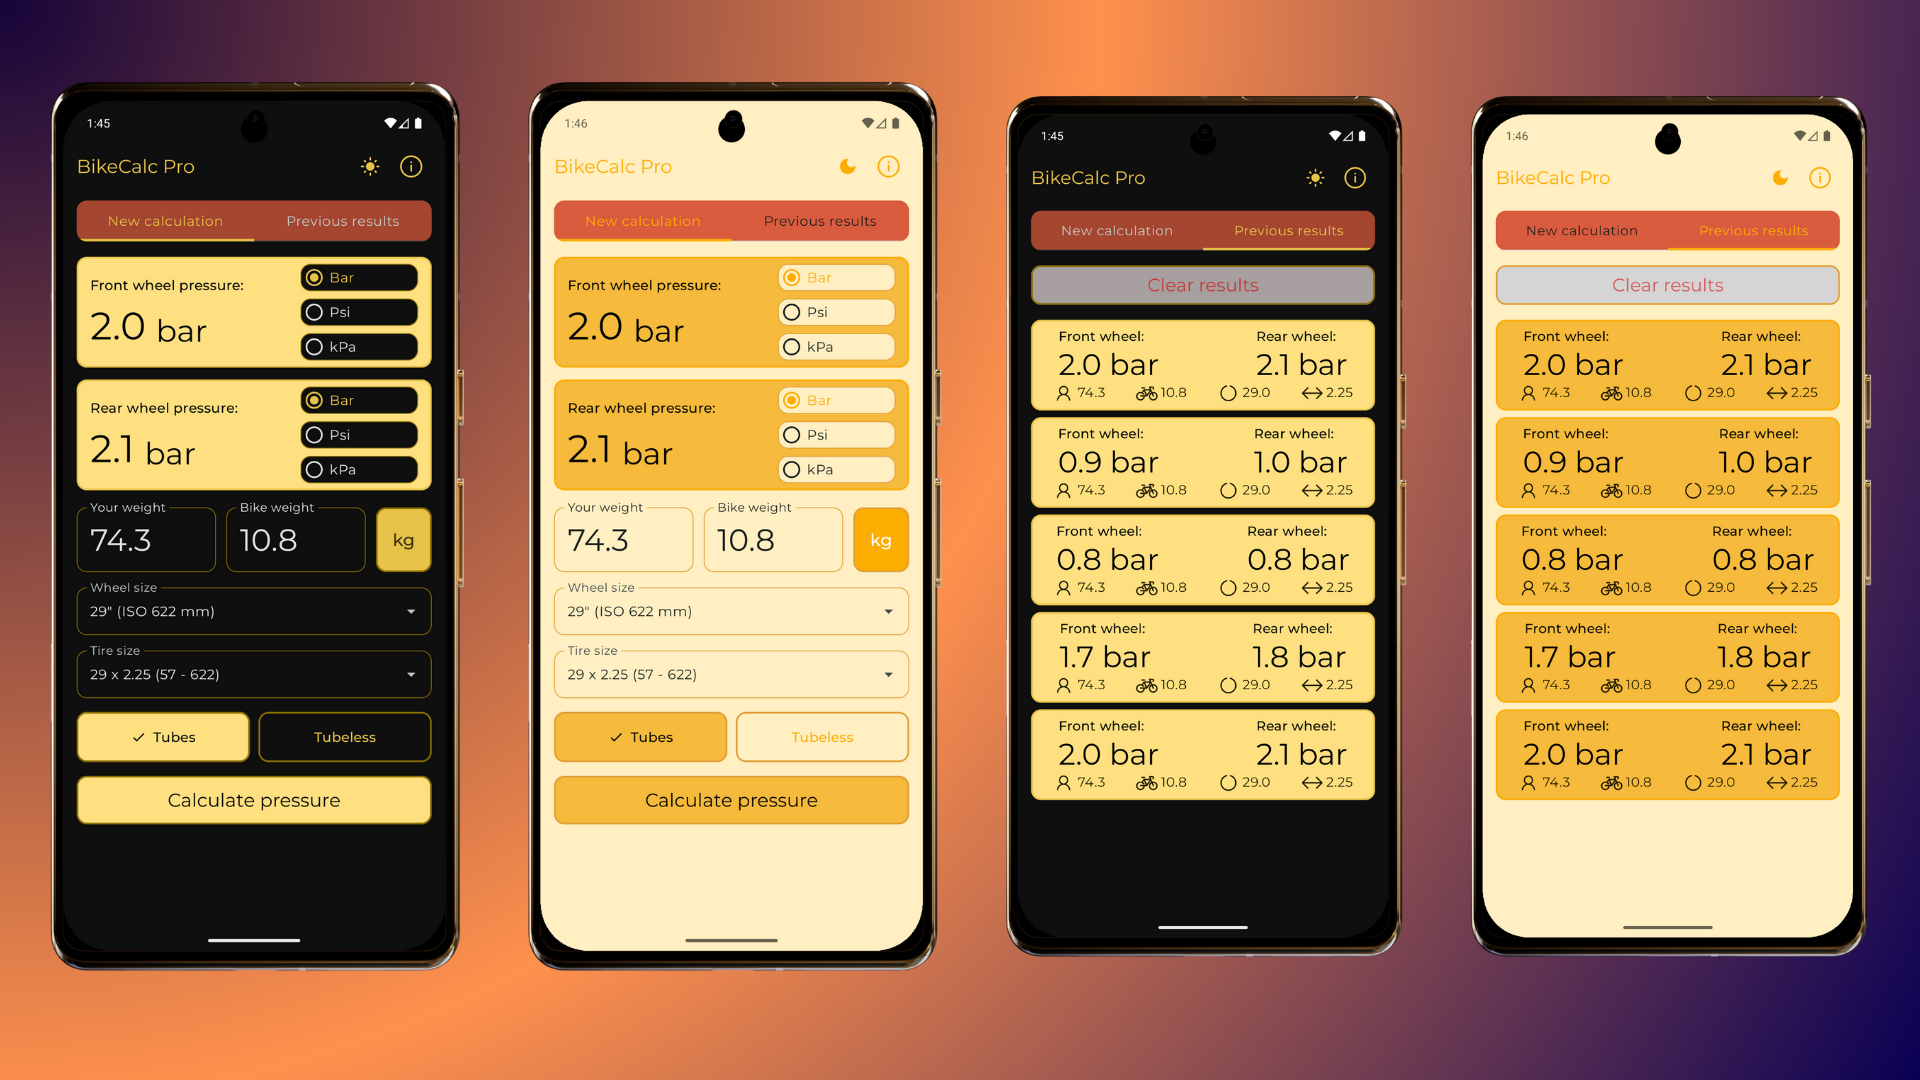
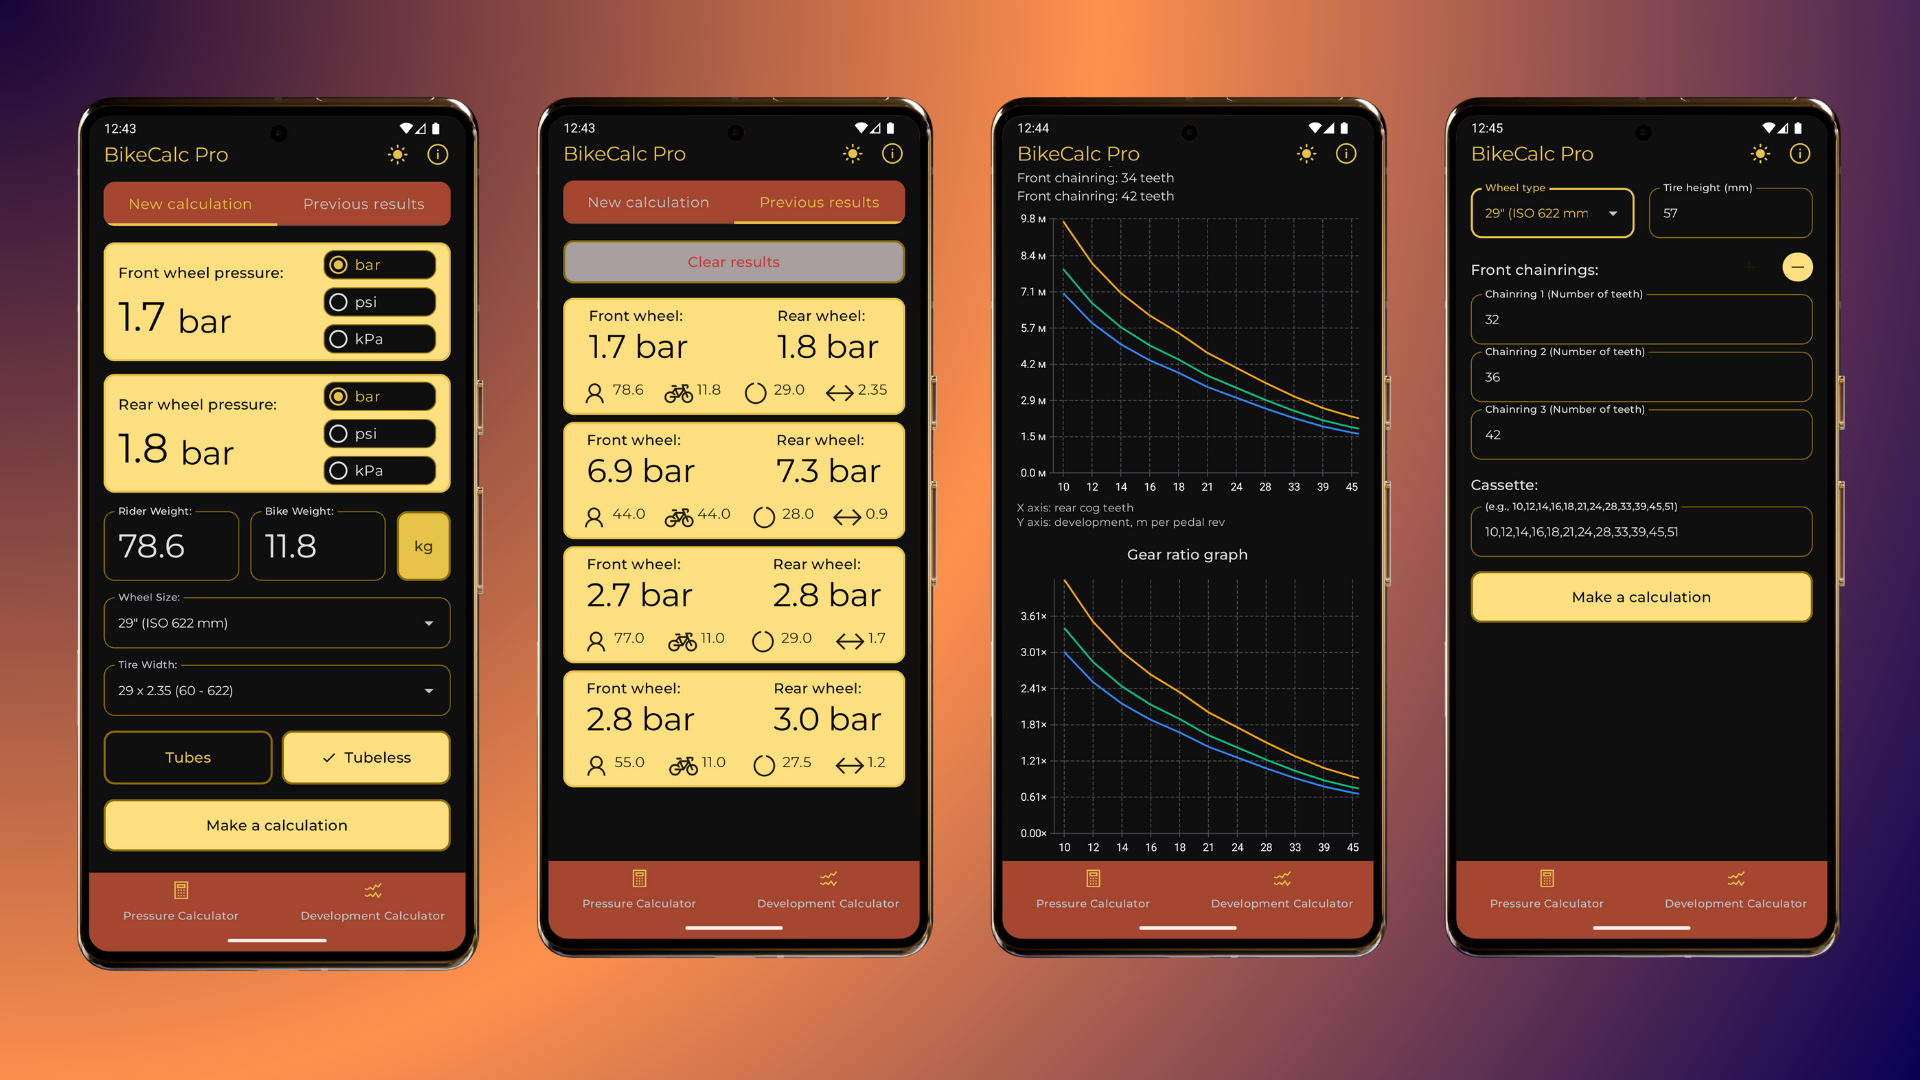
Рефакторинг: Обновление интерфейса и перемещение компонента кнопки
Этот коммит вносит ряд изменений в пользовательский интерфейс и структуру проекта:

**Основные изменения:**

-   **`composeApp` (MainScreen.kt):**
    -   Увеличена высота `NavigationBar` до `86.dp`.
    -   Установлен размер иконок в `NavigationBar` на `24.dp`.
    -   Изменен размер иконок в `TopAppBar` (смена темы и информация) на `28.dp`.
    -   Добавлен `Spacer` шириной `16.dp` между иконками в `TopAppBar`.
-   **`feature/pressure` (PressureScreenContent.kt):**
    -   Удалено явное указание размера шрифта (`20.sp`) для текста единиц веса, теперь используется `MaterialTheme.typography.titleMedium`.
-   **`feature/development` (DevelopmentCalculatorScreenRoot.kt):**
    -   Заменена стандартная кнопка `Button` на кастомный компонент `CalculatePressureButton` для расчета развития.
    -   Уменьшен отступ `Spacer` перед полем ввода количества зубьев задних звезд с `6.dp` до `2.dp`.
-   **`designsystem`:**
    -   **Перемещение и переименование компонента:** `CalculatePressureButton.kt` из модуля `feature/pressure` перемещен в `designsystem/src/commonMain/kotlin/dev/filinhat/bikecalc/designsystem/component` и переименован в `CalculateButton.kt`.
    -   **Добавлены строки для кнопки расчета:**
        -   `designsystem/src/commonMain/composeResources/values/strings.xml`: Добавлена строка "calculate" со значением "Make a calculation".
[…]

diff --git a/feature/development/src/commonMain/kotlin/dev/filinhat/bikecalc/feature/development/screen/DevelopmentCalculatorScreenRoot.kt b/feature/development/src/commonMain/kotlin/dev/filinhat/bikecalc/feature/development/screen/DevelopmentCalculatorScreenRoot.kt
@@ -15,7 +15,6 @@ import androidx.compose.foundation.layout.size
 import androidx.compose.foundation.layout.widthIn
 import androidx.compose.foundation.rememberScrollState
 import androidx.compose.foundation.verticalScroll
-import androidx.compose.material3.Button
 import androidx.compose.material3.Icon
 import androidx.compose.material3.IconButton
 import androidx.compose.material3.IconButtonDefaults
@@ -40,7 +39,6 @@ import bikecalcmp.feature.development.generated.resources.cassette
 import bikecalcmp.feature.development.generated.resources.cassette_hint
 import bikecalcmp.feature.development.generated.resources.front_chainring_n_hint
 import bikecalcmp.feature.development.generated.resources.front_chainrings_title
-import bikecalcmp.feature.development.generated.resources.new_calculation
 import bikecalcmp.feature.development.generated.resources.tire_width_mm
 import bikecalcmp.feature.development.generated.resources.wheel_size
 import compose.icons.LineAwesomeIcons
@@ -49,6 +47,7 @@ import compose.icons.lineawesomeicons.PlusSolid
 import dev.filinhat.bikecalc.core.common.util.toBikeDouble
 import dev.filinhat.bikecalc.core.enums.wheel.WheelSize
 import dev.filinhat.bikecalc.core.model.development.DevelopmentCalcParams
+import dev.filinhat.bikecalc.designsystem.component.CalculatePressureButton
 import dev.filinhat.bikecalc.designsystem.component.CompactNumericInputField
 import dev.filinhat.bikecalc.feature.development.component.DevelopmentCharts
 import dev.filinhat.bikecalc.feature.development.component.WheelSizeDropdown
@@ -225,7 +224,7 @@ private fun DevelopmentCalculatorScreen(
                     .fillMaxWidth(),
         )
 
-        Spacer(modifier = Modifier.padding(6.dp))
+        Spacer(modifier = Modifier.padding(2.dp))
 
         CompactNumericInputField(
             value = rearTeeth,
@@ -237,24 +236,25 @@ private fun DevelopmentCalculatorScreen(
 
         Spacer(modifier = Modifier.padding(8.dp))
 
-        Button(onClick = {
-            keyboardController?.hide()
-            focusManager?.clearFocus()
-            val frontList = frontTeethInputs.mapNotNull { it.trim().toIntOrNull() }.take(3)
-            val rearList = rearTeeth.split(",").mapNotNull { it.trim().toIntOrNull() }
-            onAction(
-                DevelopmentCalcAction.OnCalculateDevelopment(
-                    DevelopmentCalcParams(
-                        rimDiameterMm = selectedWheelSize.etrtoMm.toDouble(),
-                        tireWidthMm = tireWidth.toBikeDouble(),
-                        frontTeethList = frontList,
-                        rearTeethList = rearList,
+        CalculatePressureButton(
+            onClick = {
+                keyboardController?.hide()
+                focusManager?.clearFocus()
+                val frontList = frontTeethInputs.mapNotNull { it.trim().toIntOrNull() }.take(3)
+                val rearList = rearTeeth.split(",").mapNotNull { it.trim().toIntOrNull() }
+                onAction(
+                    DevelopmentCalcAction.OnCalculateDevelopment(
+                        DevelopmentCalcParams(
+                            rimDiameterMm = selectedWheelSize.etrtoMm.toDouble(),
+                            tireWidthMm = tireWidth.toBikeDouble(),
+                            frontTeethList = frontList,
+                            rearTeethList = rearList,
+                        ),
                     ),
-                ),
-            )
-        }) {
-            Text(stringResource(Res.string.new_calculation))
-        }
+                )
+            },
+            enabled = true,
+        )
         Spacer(modifier = Modifier.padding(8.dp))
 
         AnimatedVisibility(

diff --git a/composeApp/src/commonMain/kotlin/dev/filinhat/bikecalc/presentation/MainScreen.kt b/composeApp/src/commonMain/kotlin/dev/filinhat/bikecalc/presentation/MainScreen.kt
@@ -6,8 +6,10 @@ import androidx.compose.foundation.layout.Row
 import androidx.compose.foundation.layout.Spacer
 import androidx.compose.foundation.layout.fillMaxSize
 import androidx.compose.foundation.layout.fillMaxWidth
+import androidx.compose.foundation.layout.height
 import androidx.compose.foundation.layout.padding
 import androidx.compose.foundation.layout.size
+import androidx.compose.foundation.layout.width
 import androidx.compose.material3.Icon
 import androidx.compose.material3.IconButton
 import androidx.compose.material3.IconButtonDefaults
@@ -102,6 +104,7 @@ fun MainScreen(modifier: Modifier = Modifier) {
                 containerColor = MaterialTheme.colorScheme.tertiaryContainer,
                 contentColor = MaterialTheme.colorScheme.primary,
                 tonalElevation = 8.dp,
+                modifier = Modifier.height(86.dp)
             ) {
                 val navBackStackEntry by navController.currentBackStackEntryAsState()
                 val currentDestination = navBackStackEntry?.destination
@@ -126,6 +129,7 @@ fun MainScreen(modifier: Modifier = Modifier) {
                                 imageVector = screen.icon,
                                 contentDescription = screen.title,
                                 tint = MaterialTheme.colorScheme.primary,
+                                modifier = Modifier.size(24.dp)
                             )
                         },
                         label = { Text(screen.title) },
@@ -173,10 +177,12 @@ fun MainScreen(modifier: Modifier = Modifier) {
                             IconButtonDefaults.iconButtonColors(
                                 contentColor = MaterialTheme.colorScheme.primary,
                             ),
-                        modifier = Modifier.size(48.dp),
+                        modifier = Modifier.size(28.dp),
                     ) {
                         Icon(vectorResource(iconTheme), contentDescription = null)
                     }
+
+                    Spacer(modifier = Modifier.width(16.dp))
 
                     IconButton(
                         onClick = {
@@ -188,7 +194,7 @@ fun MainScreen(modifier: Modifier = Modifier) {
                             IconButtonDefaults.iconButtonColors(
                                 contentColor = MaterialTheme.colorScheme.primary,
                             ),
-                        modifier = Modifier.size(48.dp),
+                        modifier = Modifier.size(28.dp),
                     ) {
                         Icon(
                             imageVector = LineAwesomeIcons.InfoCircleSolid,

diff --git a/feature/pressure/src/commonMain/kotlin/dev/filinhat/bikecalc/feature/pressure/component/ChangePressureRadioGroup.kt b/feature/pressure/src/commonMain/kotlin/dev/filinhat/bikecalc/feature/pressure/component/ChangePressureRadioGroup.kt
@@ -26,7 +26,12 @@ import androidx.compose.ui.hapticfeedback.HapticFeedbackType
 import androidx.compose.ui.platform.LocalHapticFeedback
 import androidx.compose.ui.semantics.Role
 import androidx.compose.ui.unit.dp
+import bikecalcmp.feature.pressure.generated.resources.Res
+import bikecalcmp.feature.pressure.generated.resources.bar
+import bikecalcmp.feature.pressure.generated.resources.kpa
+import bikecalcmp.feature.pressure.generated.resources.psi
 import dev.filinhat.bikecalc.core.enums.unit.PressureUnit
+import org.jetbrains.compose.resources.stringResource
 
 /**
  * Радио кнопки для выбора единиц отображения давления
@@ -83,9 +88,9 @@ fun ChangePressureRadioGroup(
                 Text(
                     text =
                         when (item) {
-                            PressureUnit.KPa -> "кПа"
-                            PressureUnit.BAR -> "бар"
-                            PressureUnit.PSI -> "psi"
+                            PressureUnit.KPa -> stringResource(Res.string.kpa)
+                            PressureUnit.BAR -> stringResource(Res.string.bar)
+                            PressureUnit.PSI -> stringResource(Res.string.psi)
                         },
                     style = MaterialTheme.typography.bodyLarge,
                     color = if (item == selectedOption) MaterialTheme.colorScheme.primary else MaterialTheme.colorScheme.onBackground,

diff --git a/designsystem/src/commonMain/kotlin/dev/filinhat/bikecalc/designsystem/component/CalculateButton.kt b/designsystem/src/commonMain/kotlin/dev/filinhat/bikecalc/designsystem/component/CalculateButton.kt
@@ -1,4 +1,4 @@
-package dev.filinhat.bikecalc.feature.pressure.component
+package dev.filinhat.bikecalc.designsystem.component
 
 import androidx.compose.foundation.BorderStroke
 import androidx.compose.foundation.layout.fillMaxWidth
@@ -14,12 +14,12 @@ import androidx.compose.ui.hapticfeedback.HapticFeedbackType
 import androidx.compose.ui.platform.LocalHapticFeedback
 import androidx.compose.ui.text.style.TextOverflow.Companion.Ellipsis
 import androidx.compose.ui.unit.dp
-import bikecalcmp.feature.pressure.generated.resources.Res
-import bikecalcmp.feature.pressure.generated.resources.calculate_pressure
+import bikecalcmp.designsystem.generated.resources.Res
+import bikecalcmp.designsystem.generated.resources.calculate
 import org.jetbrains.compose.resources.stringResource
 
 /**
- * Кнопка для расчета давления.
+ * Кнопка для расчета.
  */
 @Composable
 fun CalculatePressureButton(
@@ -53,16 +53,10 @@ fun CalculatePressureButton(
             ),
     ) {
         Text(
-            text = stringResource(Res.string.calculate_pressure),
-            style = MaterialTheme.typography.titleLarge,
+            text = stringResource(Res.string.calculate),
+            style = MaterialTheme.typography.titleMedium,
             maxLines = 1,
             overflow = Ellipsis,
         )
     }
 }
-
-
-
-
-
-

diff --git a/feature/pressure/src/commonMain/kotlin/dev/filinhat/bikecalc/feature/pressure/component/PressureScreenContent.kt b/feature/pressure/src/commonMain/kotlin/dev/filinhat/bikecalc/feature/pressure/component/PressureScreenContent.kt
@@ -40,7 +40,6 @@ import androidx.compose.ui.platform.SoftwareKeyboardController
 import androidx.compose.ui.text.input.KeyboardType
 import androidx.compose.ui.text.style.TextOverflow
 import androidx.compose.ui.unit.dp
-import androidx.compose.ui.unit.sp
 import bikecalcmp.feature.pressure.generated.resources.Res
 import bikecalcmp.feature.pressure.generated.resources.kg
 import bikecalcmp.feature.pressure.generated.resources.label_bike_weight
@@ -62,6 +61,7 @@ import dev.filinhat.bikecalc.core.enums.tire.TireSize29Inches
 import dev.filinhat.bikecalc.core.enums.unit.WeightUnit
 import dev.filinhat.bikecalc.core.enums.wheel.Wheel
 import dev.filinhat.bikecalc.core.enums.wheel.WheelSize
+import dev.filinhat.bikecalc.designsystem.component.CalculatePressureButton
 import dev.filinhat.bikecalc.designsystem.component.DropdownMenu
 import dev.filinhat.bikecalc.feature.pressure.state.PressureCalcAction
 import dev.filinhat.bikecalc.feature.pressure.state.PressureCalcState
@@ -251,7 +251,7 @@ fun PressureScreenContent(
                         } else {
                             stringResource(Res.string.lbs)
                         },
-                    style = MaterialTheme.typography.titleMedium.copy(fontSize = 20.sp),
+                    style = MaterialTheme.typography.titleMedium,
                 )
             }
         }

diff --git a/feature/development/src/commonMain/kotlin/dev/filinhat/bikecalc/feature/development/component/DevelopmentCharts.kt b/feature/development/src/commonMain/kotlin/dev/filinhat/bikecalc/feature/development/component/DevelopmentCharts.kt
@@ -189,7 +189,7 @@ fun DevelopmentCharts(
                         ),
                 ),
             modelProducer = ratioModelProducer,
-            animationSpec = tween<Float>(durationMillis = 450),
+            animationSpec = tween(durationMillis = 450),
             animateIn = true,
             placeholder = {},
             modifier =

diff --git a/feature/pressure/src/commonMain/kotlin/dev/filinhat/bikecalc/feature/pressure/component/DeleteResultsButton.kt b/feature/pressure/src/commonMain/kotlin/dev/filinhat/bikecalc/feature/pressure/component/DeleteResultsButton.kt
@@ -54,7 +54,7 @@ fun DeleteResultsButton(
     ) {
         Text(
             text = stringResource(Res.string.clear_results),
-            style = MaterialTheme.typography.titleLarge,
+            style = MaterialTheme.typography.titleMedium,
             maxLines = 1,
             overflow = Ellipsis,
         )

diff --git a/README.md b/README.md
@@ -27,9 +27,27 @@
 [![🚴♂ BikeCalc Pro CI/CD](https://github.com/filin2hat/BikeCalcMP/actions/workflows/main.yml/badge.svg?branch=master)](https://github.com/filin2hat/BikeCalcMP/actions/workflows/main.yml)
 
 [![RuStore](https://img.shields.io/badge/RuStore-5.0⭐_1k+_downloads-FF6B35?logo=android)](https://www.rustore.ru/catalog/app/dev.filinhat.bikecalc)
-[![Version](https://img.shields.io/badge/Version-3.2.0-brightgreen)](https://www.rustore.ru/catalog/app/dev.filinhat.bikecalc)
+[![Version](https://img.shields.io/badge/Version-4.0.0-brightgreen)](https://www.rustore.ru/catalog/app/dev.filinhat.bikecalc)
 
 </div>
+
+## 🛍 Описание для магазина приложений
+
+Короткое описание:
+
+ВелоКалькулятор Pro — точный расчёт давления и развития передач. Графики, история, поддержка MTB/шоссе/грэвел.
+
+Полное описание:
+
+ВелоКалькулятор Pro — умный помощник для велосипедистов. Приложение помогает быстро и точно подобрать давление в шинах и рассчитать развитие передач (метры за оборот) для любых сценариев — от городских поездок до тренировок и гонок.
+
+Что внутри:
+- Подбор оптимального давления в шинах с учётом веса райдера и велосипеда, типа камеры, ширины и высоты покрышки, а также стандарта колёс (ETRTO)
+- Калькулятор развития: метры за оборот и передаточное отношение по выбранным звёздам (перед/зад), наглядные графики и сравнение конфигураций
+- История расчётов для быстрого возврата к предыдущим настройкам
+- Мгновенная конвертация единиц измерения (bar / psi / kPa)
+
+Подходит для: MTB, шоссе, грэвел и городских велосипедов. Помогает повысить комфорт и контроль, уменьшить износ покрышек и добиться нужной динамики передачи.
 
 ## 🎯 О проекте
 
